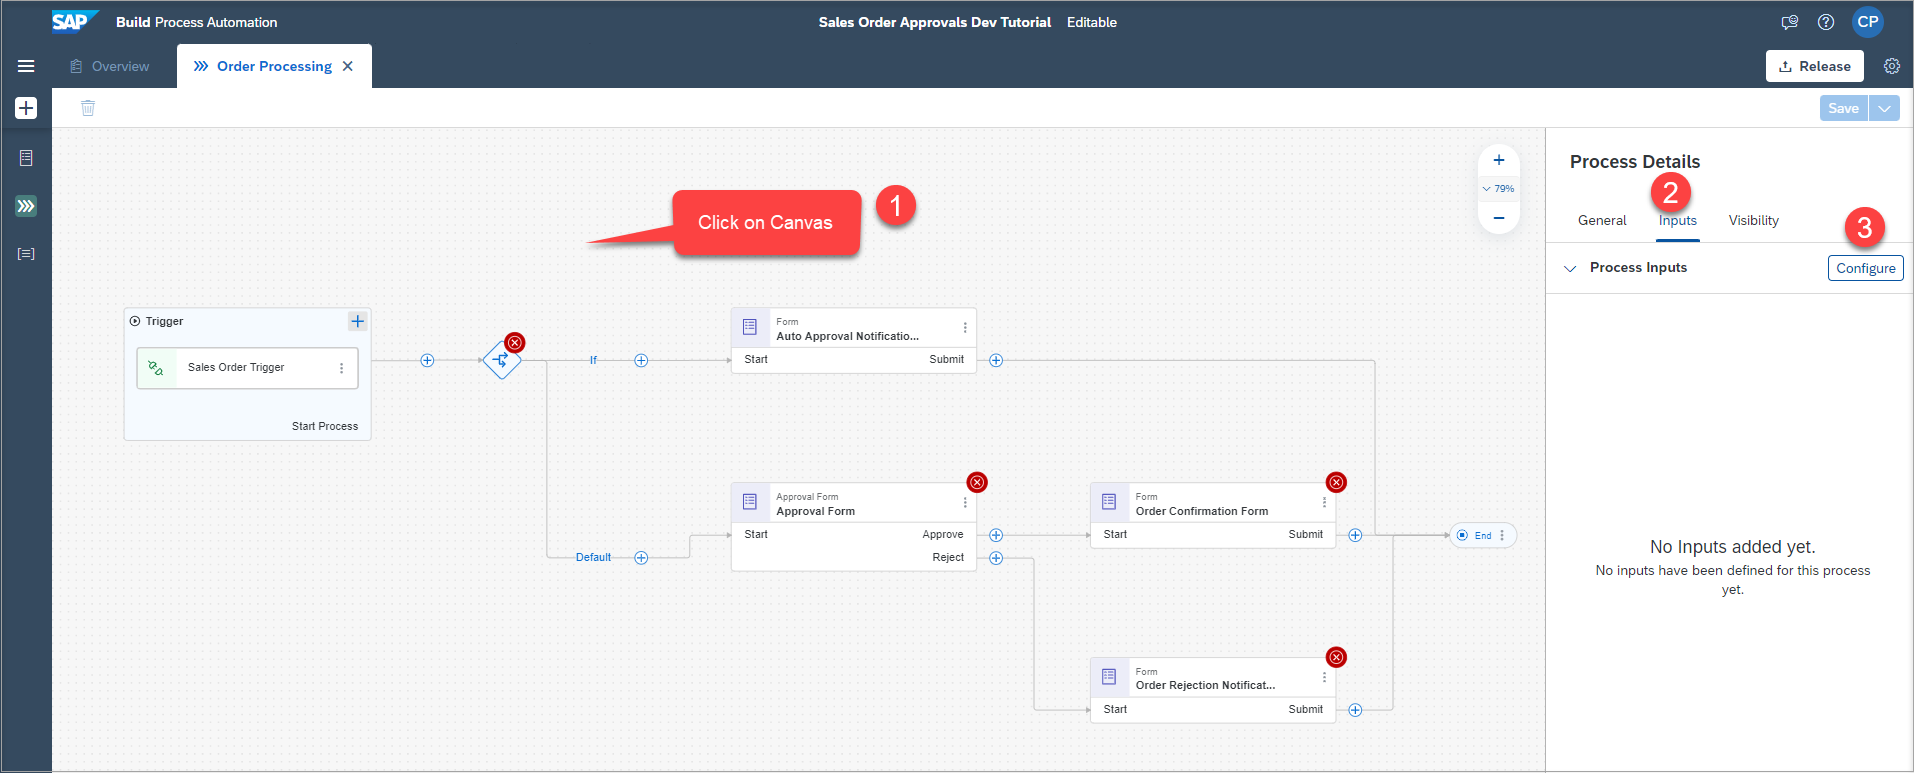
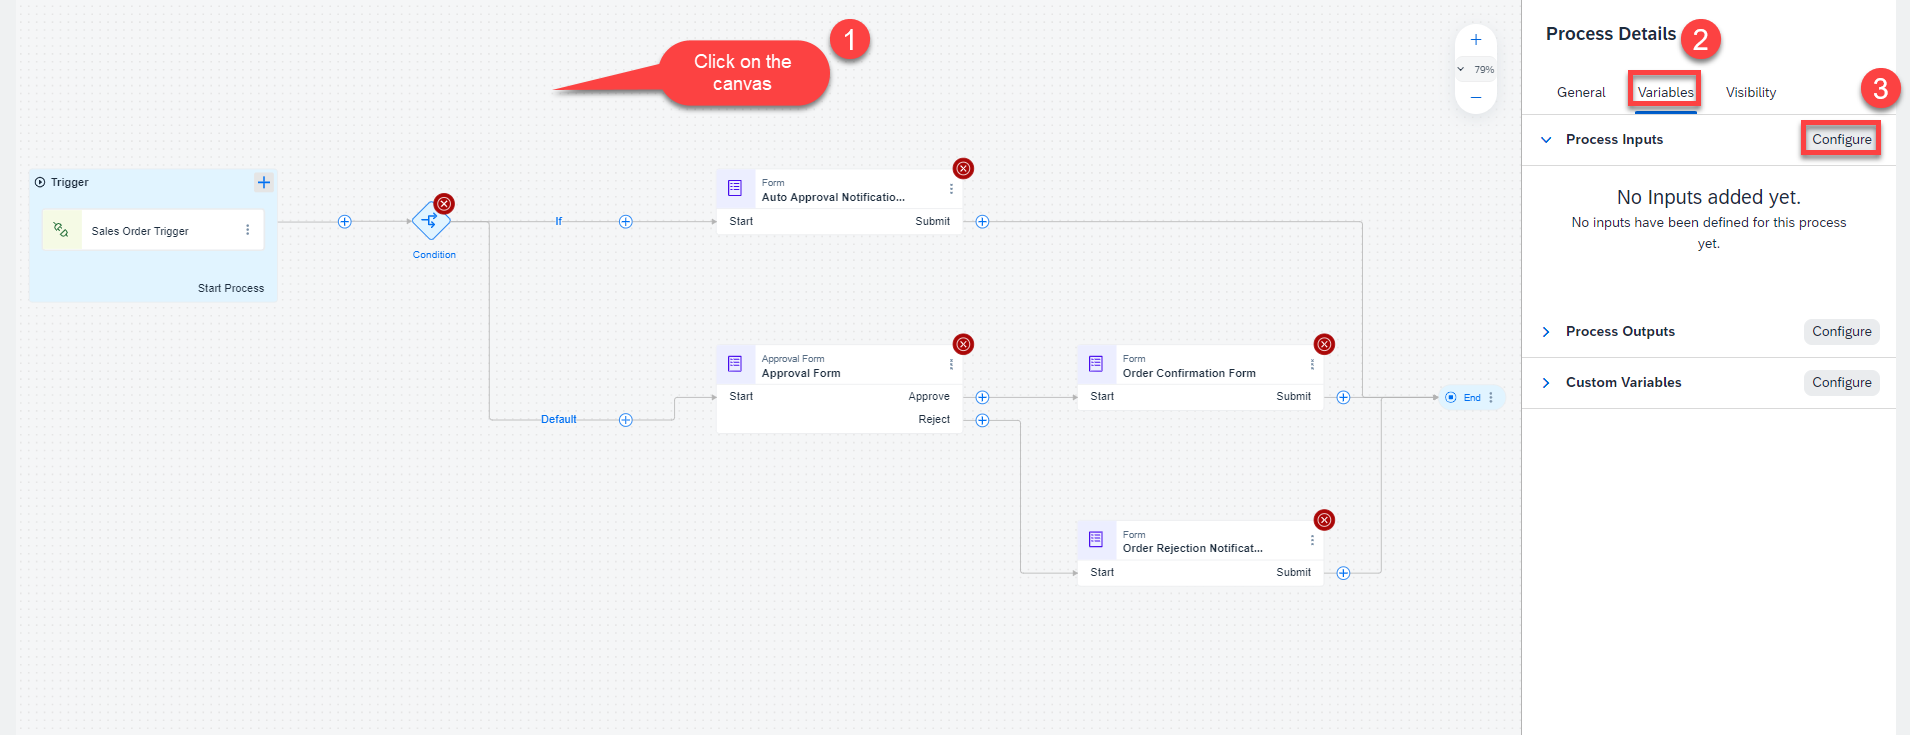
release step updated

diff --git a/tutorials/spa-create-process-api-trigger/spa-create-process-api-trigger.md b/tutorials/spa-create-process-api-trigger/spa-create-process-api-trigger.md
@@ -12,7 +12,7 @@ primary_tag: software-product>sap-build-process-automation
 <!-- description --> Create an API trigger for the business process.
 
 ## Prerequisites
- - Complete [Acquire A Template Project From The Store](spa-acquire-businessprocess-store) **OR**
+ - Complete [Acquire a Template Project from the Store](spa-acquire-businessprocess-store) and choose version history 1.2.0 **OR**
  - Complete the mission [Build Your First Business Process with SAP Build Process Automation](mission.sap-process-automation)
 
 ## You will learn
@@ -22,13 +22,15 @@ primary_tag: software-product>sap-build-process-automation
 ## Intro
 A business process is started by defining a trigger, an event that indicates to your SAP Build Process Automation tenant to start a process instance.
 
-Process triggers can be either a form, such as a request form, or an API call, where an external system starts the process.
+Process triggers can be a form, such as a request form, an API call, where an external system starts the process or an Event.
 
 You can start an instance of your process using an API call, with the inputs for the call configured from the process builder. These inputs can then be used as input fields in your process.
 
+You may also start the instance with an event trigger which on-boards and listens to back-end events emitted from an external source system and reacts to such events by triggering artifacts such as processes and automations.
+
 ### Create an API trigger for the process
 
-Once you have completed the tutorial [Acquire A Template Project From The Store](spa-acquire-businessprocess-store), your process looks as below.
+Once you have completed the tutorial [Acquire a Template Project from the Store](spa-acquire-businessprocess-store), your process looks as below.
 
 <!-- border -->![Process](1.png)
 
@@ -44,23 +46,23 @@ Once you have completed the tutorial [Acquire A Template Project From The Store]
 
     <!-- border -->![Warning](3.png)
 
-    **Save** the project.
+3. **Save** the project.
 
-3.  To add an API trigger for the process, click on the **+** > **API** > **New API Trigger**.
+4.  To add an API trigger for the process, click on the **+** > **API** > **New API Trigger**.
 
     >Since the bindings are lost, all the artifacts are in error state. Once the API trigger is created, the bindings will be updated.  
 
     <!-- border -->![New API Trigger](4.png)
 
 
-4.  Enter the name of the trigger as **Sales Order Trigger**. Choose **Create**.
+5.  Enter the name of the trigger as **Sales Order Trigger**. Choose **Create**.
 
     <!-- border -->![Create API Trigger Pop Up](5.png)
 
 
 ### Create the inputs for an API trigger
 
-1. Select **Sales Order Trigger**, click on the **Canvas**, and choose **Inputs**. Then choose **Configure** to configure inputs.
+1. Select **Sales Order Trigger**, click on the **Canvas**, and choose **Variables**. Then choose **Configure** to configure process inputs.
 
     <!-- border -->![Inputs](6.png)
 
@@ -72,11 +74,11 @@ Once you have completed the tutorial [Acquire A Template Project From The Store]
     |  :------------- | :-------------
     |  `salesOrderDetails`       | `SalesOrder`
 
-    **Apply** changes.
+3. **Apply** changes.
 
     <!-- border -->![Add Inputs](7.png)
 
-3. Once the trigger is created successfully, you can view the trigger under the **Triggers**  section in the **Overview** page.
+4. Once the trigger is created successfully, you can view the trigger under the **Triggers**  section in the **Overview** page.
 
     <!-- border -->![Triggers Overview](7.1.png)  
 
@@ -86,11 +88,11 @@ Once you have completed the tutorial [Acquire A Template Project From The Store]
     >
     >- Delete will permanently delete the trigger from design-time, but for already deployed processes the trigger will still exist at runtime.
     >
-    >In general, any changes in the trigger will be affective only when the process is released and deployed.
+    >In general, any changes in the trigger will be effective only when the process is released and deployed.
     >
     >**Note:** All the API triggers that are created in that project will be shown.
 
-**Save** the project.
+5. **Save** the project.
 
 ### Modify the process
 
@@ -100,54 +102,56 @@ Since you have created an API trigger, the bindings were lost as mentioned in **
 
     <!-- border -->![Condition](Condition.png)
 
-    Enter the condition for the `orderAmount`.
+2. Enter the condition for the `orderAmount`.
 
     <!-- border -->![Condition](8.1.png)
 
     <!-- border -->![Condition](9.png)
 
-    Click on **Apply**.
+3. Click on **Apply**.
 
-2. Choose **Approval Form** to adjust the bindings.
+4. Choose **Approval Form** to adjust the bindings.
 
     Modify the **General** section. Since the process would be started through an API, remove the Users **Process Started by** and enter your `EmailID` that was configured for the tenant.
 
     <!-- border -->![Condition](11.png)
 
-    Modify the **Inputs** section.
+5. Modify the **Inputs** section.
 
     <!-- border -->![Condition](12.png)
 
-3. Choose **Order Confirmation Form** to adjust the bindings.
+6. Choose **Order Confirmation Form** to adjust the bindings.
 
     Modify the **General** section. Since the process would be started through an API, remove the Users **Process Started by** and enter your `EmailID` that was configured for the tenant.
 
     <!-- border -->![Confirmation](13.png)
 
-    Modify the **Inputs** section.
+7. Modify the **Inputs** section.
 
     <!-- border -->![Inputs](14.png)
 
-4. Choose **Order Rejection Notification Form** to adjust the bindings.
+8. Choose **Order Rejection Notification Form** to adjust the bindings.
 
     Modify the **General** Section. Since the process would be started through an API, remove the Users **Process Stared by** and enter your `EmailID` that was configured for the tenant.
 
     <!-- border -->![Rejection Form](15.png)
 
-    Modify **Inputs** section.
+9. Modify **Inputs** section.
 
     <!-- border -->![Inputs](16.png)
 
-5. Choose **Auto Approval Notification Form** to adjust the bindings.
+10. Choose **Auto Approval Notification Form** to adjust the bindings.
 
     Modify the **General** section. Since the process would be started through an API, remove the Users **Process Started by** and enter your `EmailID` that was configured for the tenant.
     <!-- border -->![Approval Notification](16.1.png)
 
-    Modify the **Inputs** section.
+11. Modify the **Inputs** section.
 
     <!-- border -->![Inputs](16.2.png)
 
-5. **Save** your project.
+12. **Save** your project.
+
+
 
 ### Release and deploy the process with an API trigger
 
@@ -155,11 +159,14 @@ Since you have created an API trigger, the bindings were lost as mentioned in **
 
     <!-- border -->![Release](17.png)
 
+    > **CAUTION:** If you have acquired the Sales Order Approvals template from the Store, you will need to delete the forms and processes that are above the quota limit and not being actively used in the tutorial to successfully release the Process with an API trigger.
+
+
 2. After successful release of the project, **deploy** the project.
 
     <!-- border -->![Deploy](19.png)
 
-You have successfully released and deployed the process and it is ready to consume via APIs.
+    You have successfully released and deployed the process and it is ready to consume via APIs.
 
 
 
